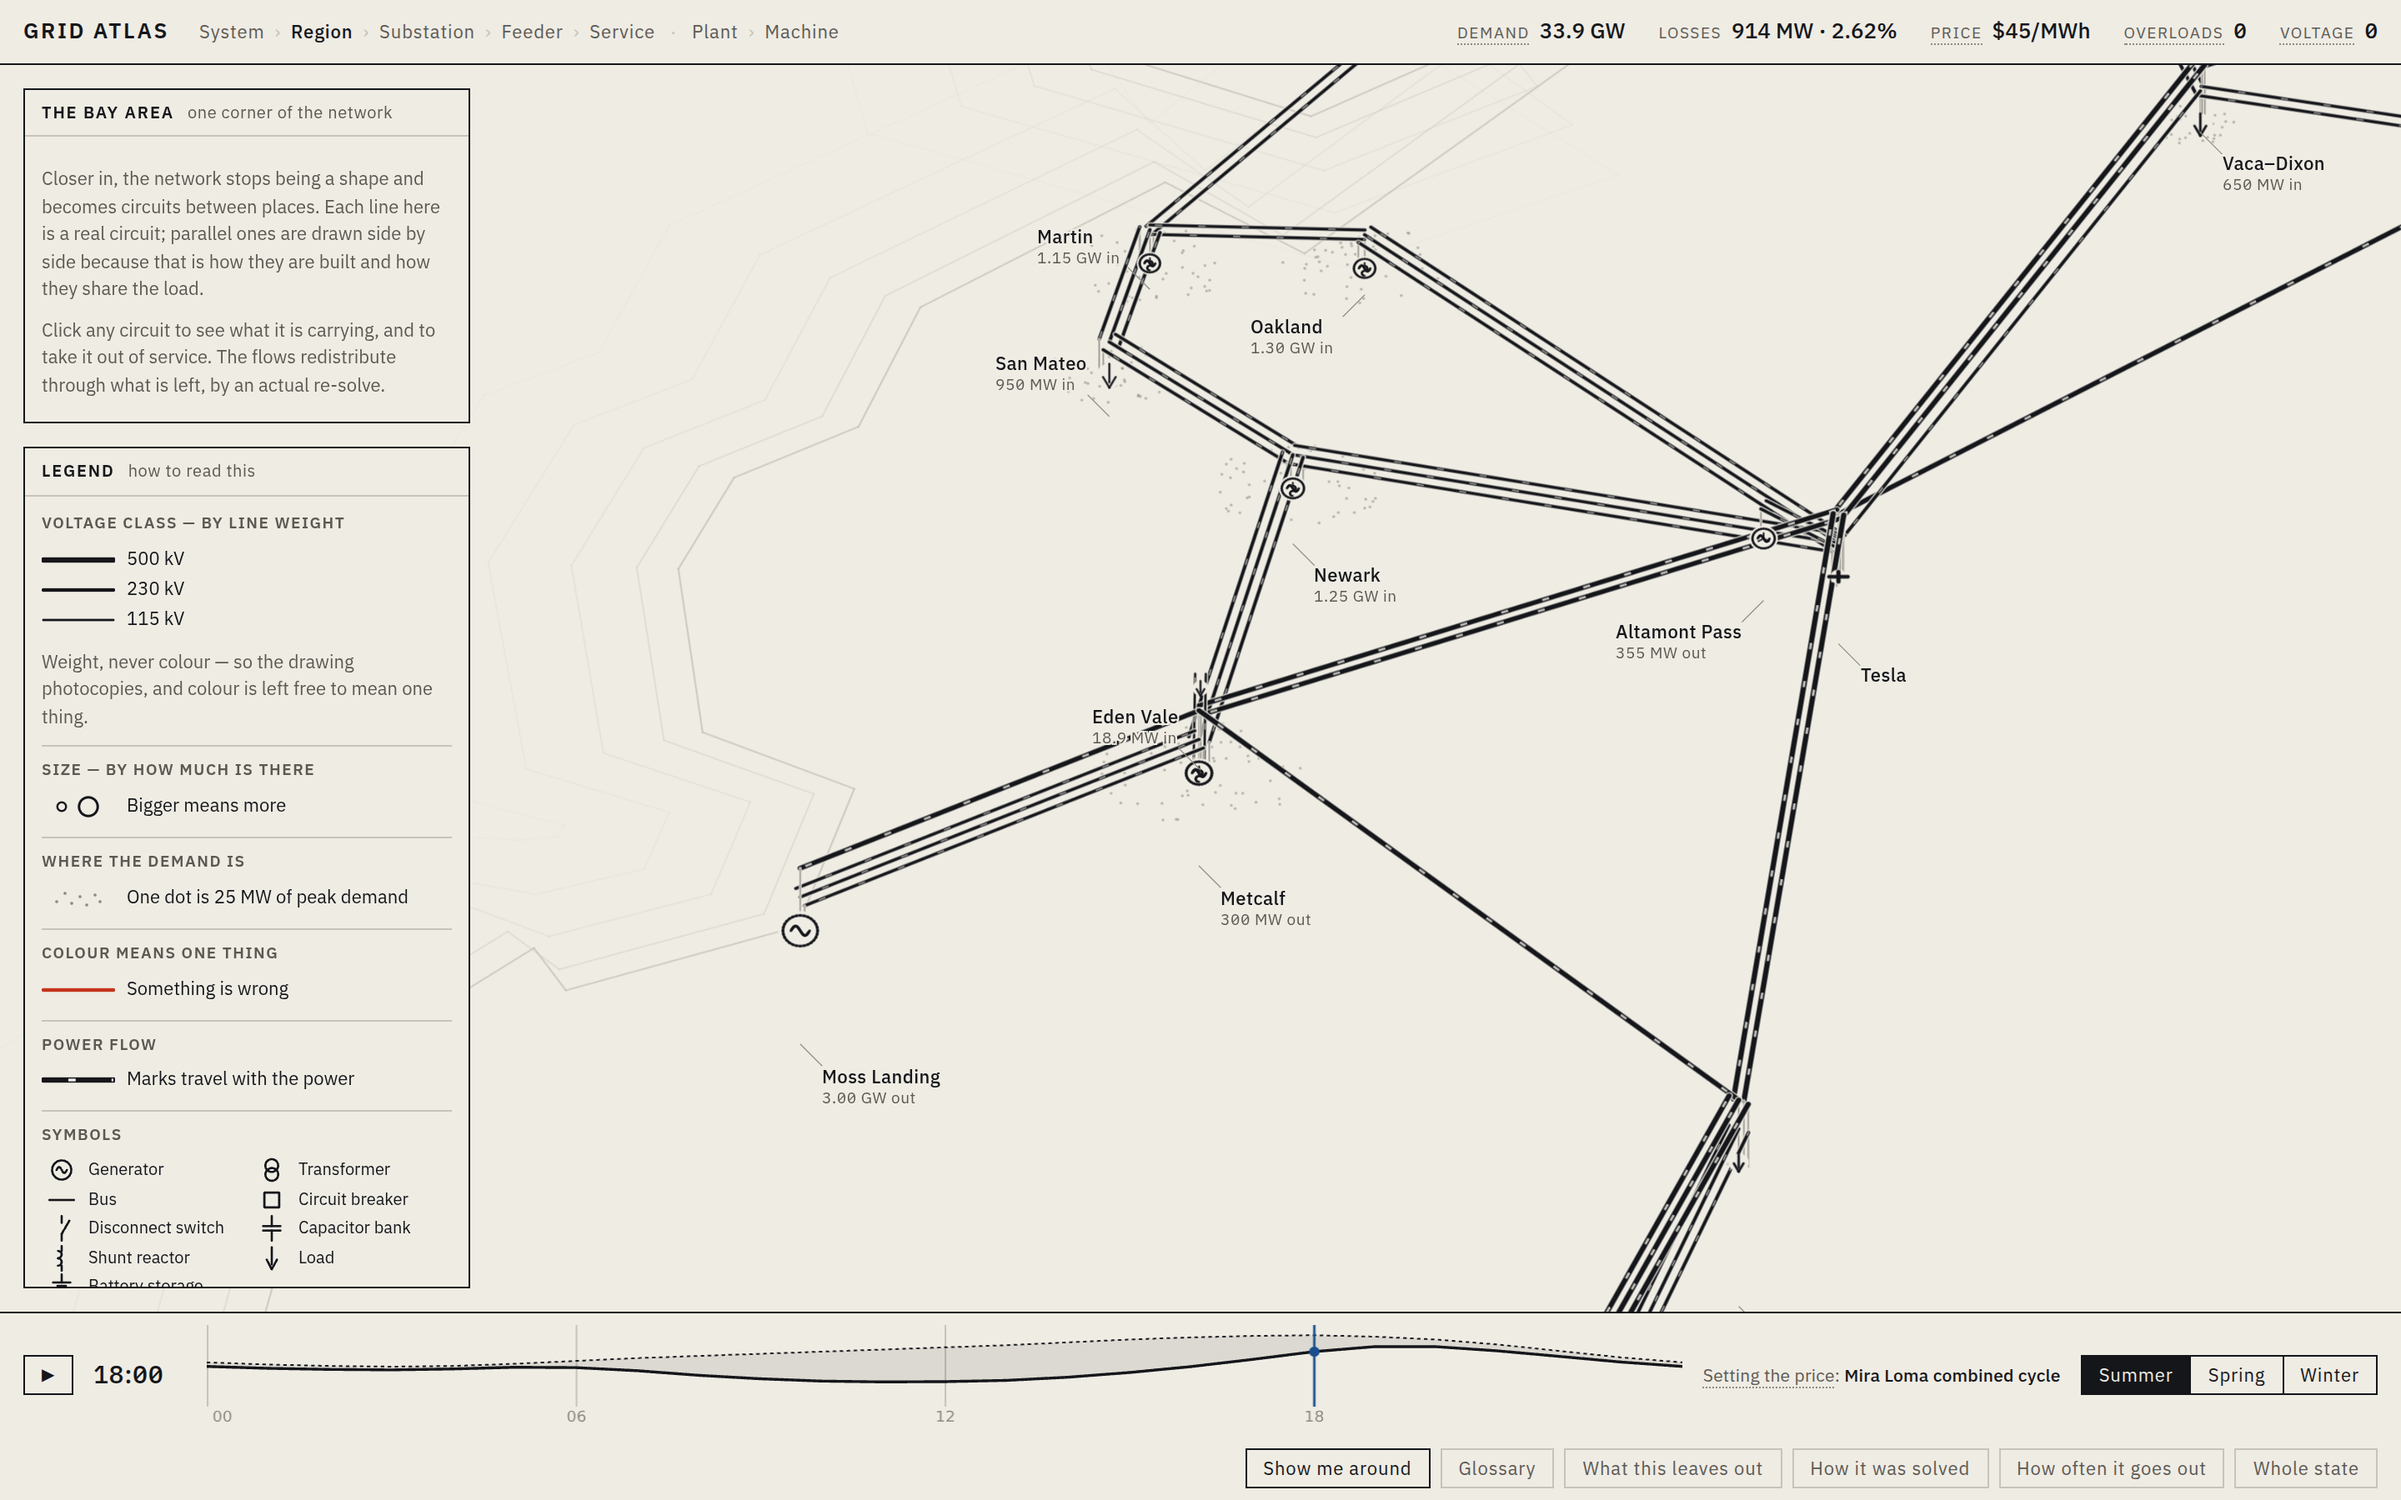
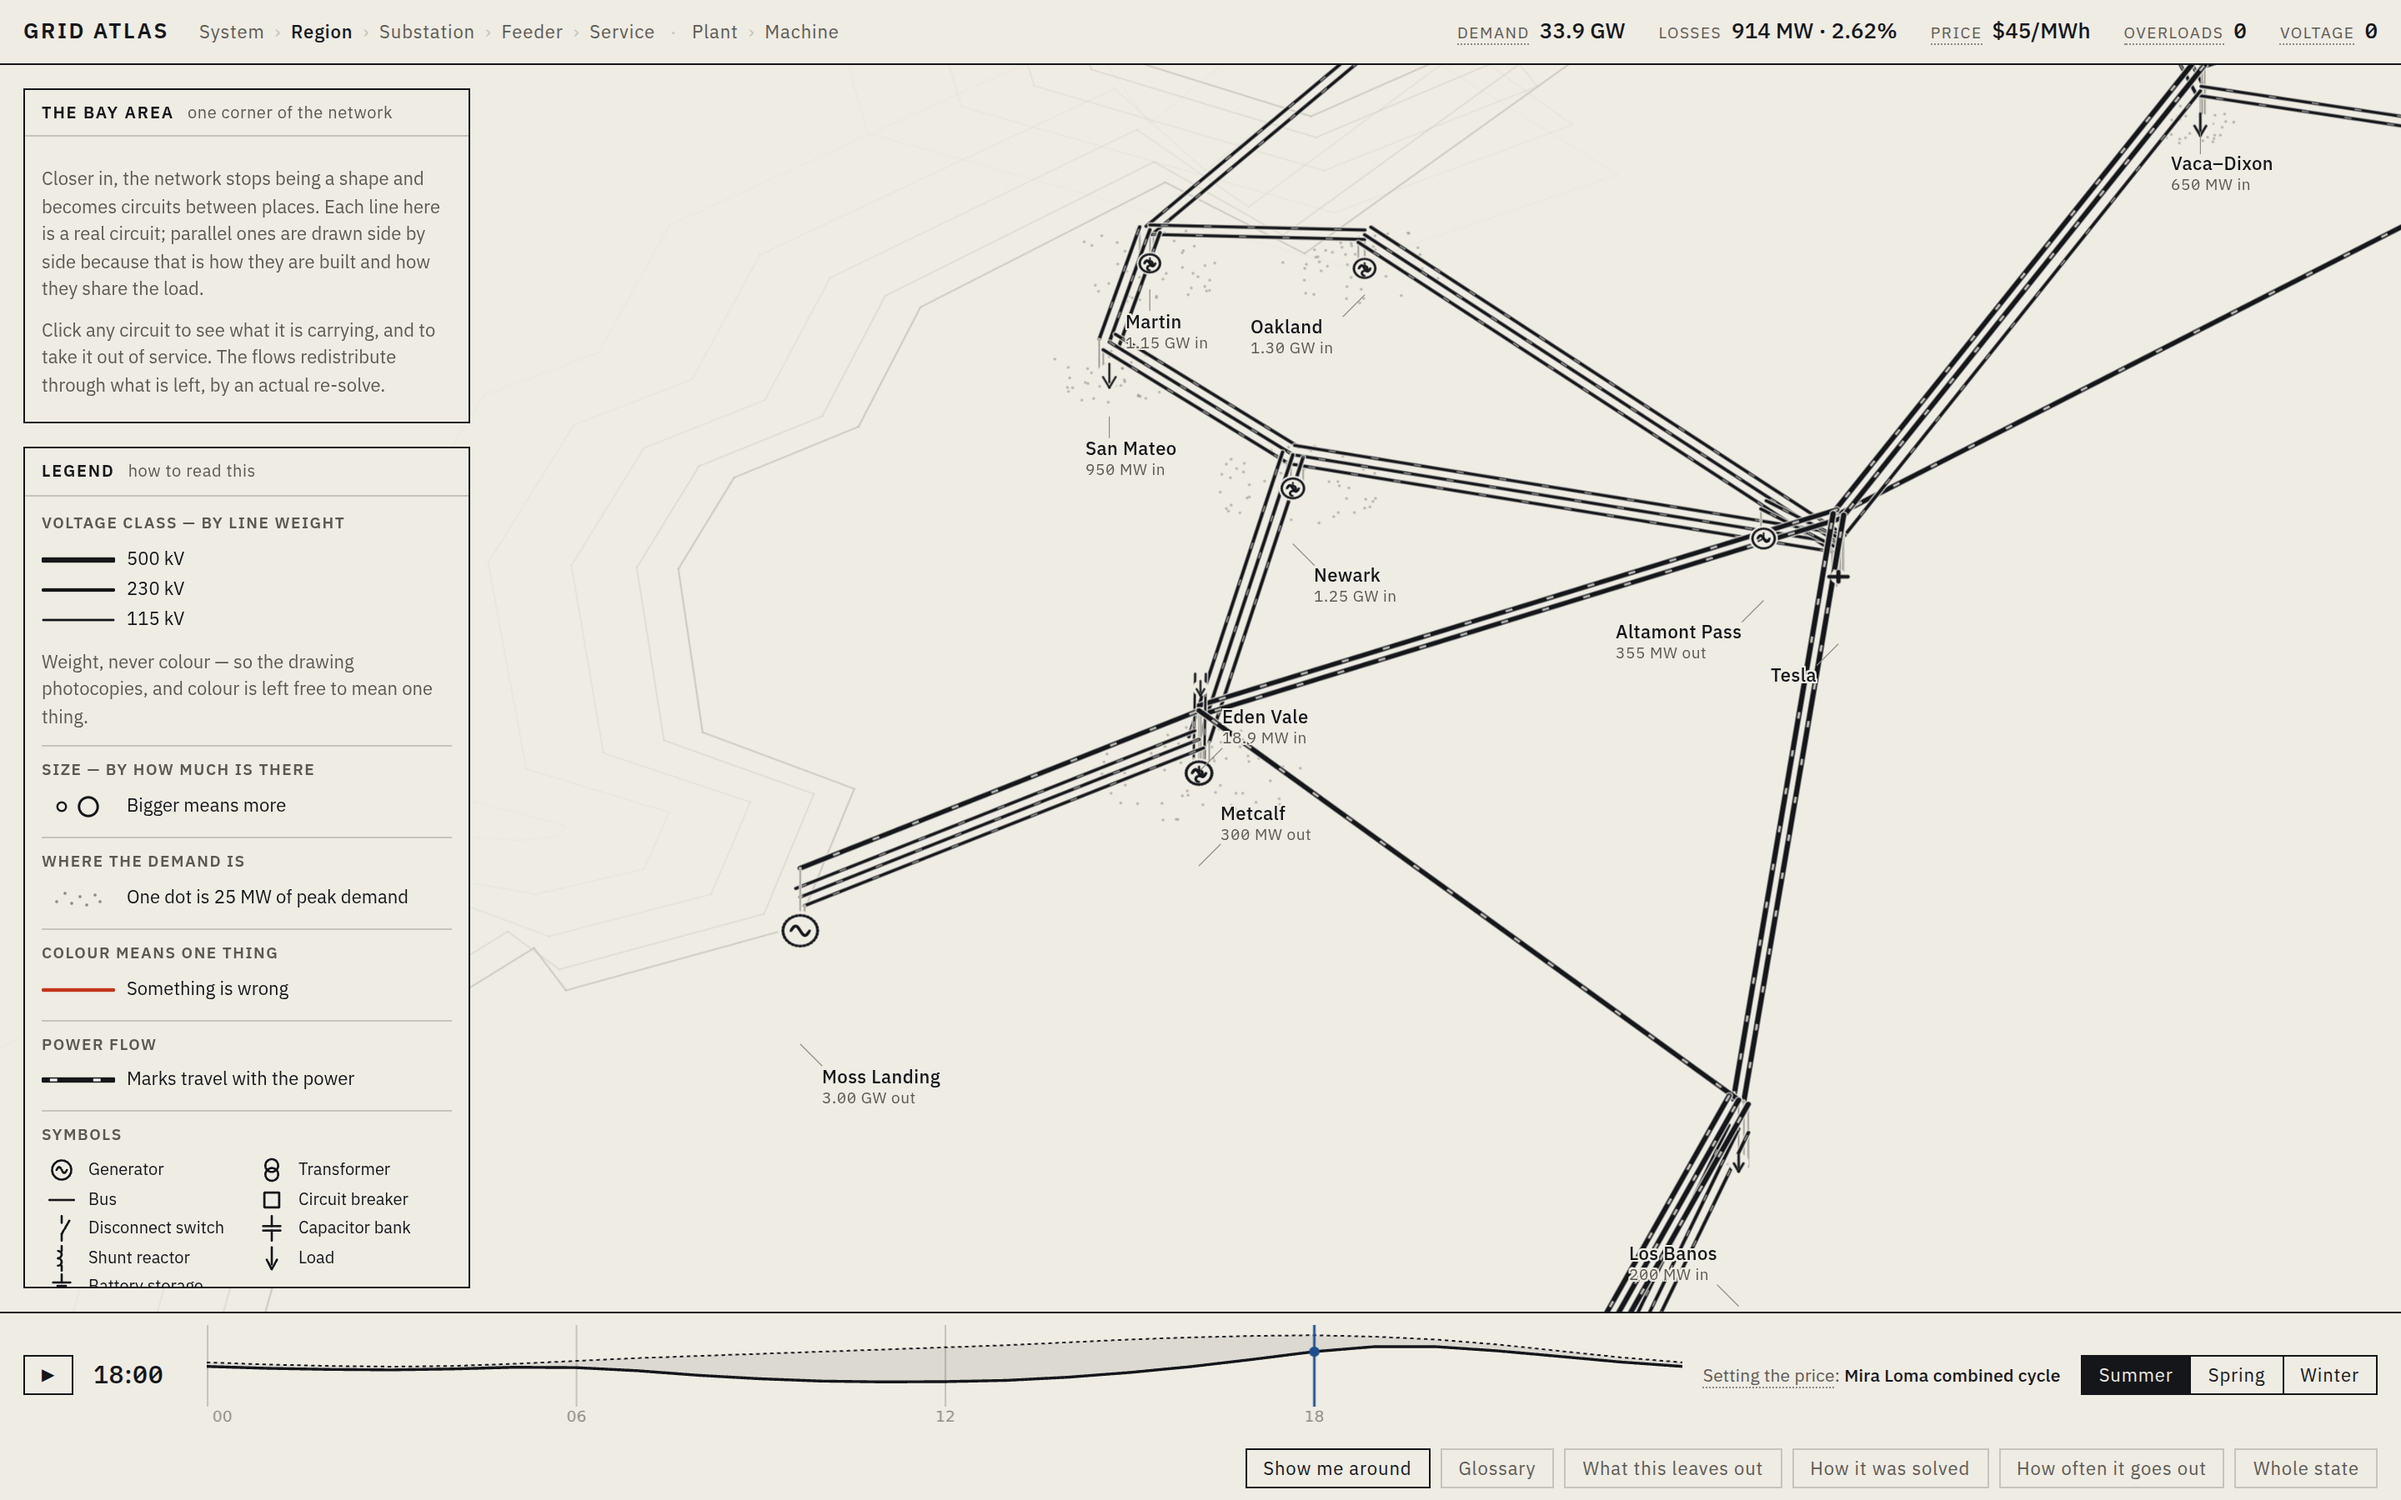
Names go on the land, not out to sea
Preferring the least ink under a caption — added in the last pass to
stop names landing in the middle of corridors — sends a caption to the
emptiest paper within reach, and on a map the emptiest paper is off the
edge of the subject. San Diego, Moss Landing, Imperial Valley and eight
others had their site inside California and their own text outside it,
each on a hairline leader, reading as names for somewhere else.

Cartographers have always pushed a coastal name inland. The inward
direction here is just the direction of the middle of the ink, which
every scene has without knowing anything about geography.

The ordering has to dominate, and this is the part that took two tries:
minimising ink across all candidates at once looks like the same thing
and is not, because the emptiest paper within reach of a coastal site
IS the sea, so least-ink kept winning there. Candidates are grouped —
beside it and inward, at arm's length inward, beside it and outward —
each group exhausted before the next, and the cleanest spot chosen
within a group. There is deliberately no fourth group: a name that fits
nowhere inward and nowhere beside its point is dropped rather than held
out over open water, where it reads as the name of the water.

Eleven of thirty-three became three of thirty, and the three are
genuinely on a coast with the sea one side and a dense cluster of names
on the other. tools/label-geography.mjs counts them and fails above
that.
[…]

diff --git a/src/render/labels.ts b/src/render/labels.ts
@@ -77,6 +77,9 @@ export interface InkField {
   cols: number;
   rows: number;
   cell: number;
+  /** The middle of the drawing, in screen pixels: where the ink actually is. */
+  centreX: number;
+  centreY: number;
 }
 
 const INK_CELL_PX = 12;
@@ -117,12 +120,18 @@ export function inkField(
   const pa = new Vector2();
   const pb = new Vector2();
   const w = new Vector3();
+  let sumX = 0;
+  let sumY = 0;
+  let sumW = 0;
 
   const put = (x: number, y: number, weight: number): void => {
     const cx = (x / cell) | 0;
     const cy = (y / cell) | 0;
     if (cx < 0 || cy < 0 || cx >= cols || cy >= rows) return;
     cells[cy * cols + cx] += weight;
+    sumX += x * weight;
+    sumY += y * weight;
+    sumW += weight;
   };
 
   for (const seg of segments) {
@@ -142,7 +151,43 @@ export function inkField(
       put(pa.x + dx * t, pa.y + dy * t, weight);
     }
   }
-  return { cells, cols, rows, cell };
+  return {
+    cells, cols, rows, cell,
+    centreX: sumW > 0 ? sumX / sumW : widthPx / 2,
+    centreY: sumW > 0 ? sumY / sumW : heightPx / 2,
+  };
+}
+
+/**
+ * The candidates, ordered so that a label goes outward only as a last resort.
+ *
+ *   1. beside its subject, on the side facing the drawing;
+ *   2. at arm's length on that side, on a leader;
+ *   3. beside its subject on the outward side;
+ *   4. at arm's length outward.
+ *
+ * Within each group the most inward-facing direction comes first, so ties in
+ * ink break towards the middle of the drawing rather than away from it.
+ */
+function inwardFirst(
+  tries: readonly Placement[], at: Vector2, ink: InkField
+): Placement[][] {
+  const dx = ink.centreX - at.x;
+  const dy = ink.centreY - at.y;
+  const len = Math.hypot(dx, dy);
+  if (len < 1) return [[...tries]];
+  const ux = dx / len;
+  const uy = dy / len;
+  const facing = (p: Placement): number =>
+    (p[0] * ux + p[1] * uy) / Math.hypot(p[0], p[1]);
+  const byFacing = (a: Placement, b: Placement): number => facing(b) - facing(a);
+  const inward = tries.filter((p) => facing(p) > 0.05).sort(byFacing);
+  const outward = tries.filter((p) => facing(p) <= 0.05).sort(byFacing);
+  const inwardFar = inward.map(([x, y]) => [x, y, 2.6] as Placement);
+  // Three groups, tried in order. There is deliberately no fourth: a name that
+  // fits nowhere inward and nowhere beside its point is dropped rather than
+  // held out on a leader over open sea, where it reads as the name of the sea.
+  return [inward, inwardFar, outward];
 }
 
 /** How much ink a rectangle would be written over. */
@@ -175,10 +220,21 @@ const overlaps = (a: Rect, b: Rect, pad: number): boolean =>
   a.x - pad < b.x + b.w && a.x + a.w + pad > b.x &&
   a.y - pad < b.y + b.h && a.y + a.h + pad > b.y;
 
-/** Candidate placements, tried in order: up-right, up-left, down-right, ... */
-const PLACEMENTS: [number, number][] = [
-  [1, -1], [-1, -1], [1, 1], [-1, 1], [0, -1.6], [0, 1.6],
+/**
+ * Candidate placements: which way from its subject a label may sit, and how
+ * far, as a multiple of the standard offset.
+ *
+ * The first six are the ordinary ring, tried in the conventional order —
+ * up-right, up-left, down-right, and so on. The rest are the same directions
+ * at arm's length, tried only when the near ring is full: a name that cannot
+ * sit beside its point is better held out on a leader than dropped, and better
+ * held out over the subject than off the edge of it.
+ */
+type Placement = readonly [number, number, number];
+const NEAR: Placement[] = [
+  [1, -1, 1], [-1, -1, 1], [1, 1, 1], [-1, 1, 1], [0, -1.6, 1], [0, 1.6, 1],
 ];
+const PLACEMENTS: Placement[] = NEAR;
 
 /**
  * The same candidates, restricted to one side.
@@ -195,11 +251,11 @@ const PLACEMENTS: [number, number][] = [
  * gets placed rather than dropped — losing the current and the volts dropped
  * along a wire to keep a tidy rhythm would be a bad trade.
  */
-const ABOVE: [number, number][] = [
-  [1, -1], [-1, -1], [0, -1.6], [1, 1], [-1, 1], [0, 1.6],
+const ABOVE: Placement[] = [
+  [1, -1, 1], [-1, -1, 1], [0, -1.6, 1], [1, 1, 1], [-1, 1, 1], [0, 1.6, 1],
 ];
-const BELOW: [number, number][] = [
-  [1, 1], [-1, 1], [0, 1.6], [1, -1], [-1, -1], [0, -1.6],
+const BELOW: Placement[] = [
+  [1, 1, 1], [-1, 1, 1], [0, 1.6, 1], [1, -1, 1], [-1, -1, 1], [0, -1.6, 1],
 ];
 
 export class LabelLayer {
@@ -278,25 +334,50 @@ export class LabelLayer {
       }
       const size = this.measure(spec);
       let put: PlacedLabel | null = null;
+      // A LABEL GOES ON THE SIDE OF ITS SUBJECT THAT FACES THE DRAWING.
+      //
+      // Preferring the least ink, on its own, sends a caption to the emptiest
+      // paper within reach — and the emptiest paper is off the edge of the
+      // subject. On a map of California that meant San Diego, Imperial Valley
+      // and Moss Landing captioned out at sea or over Mexico, each on a
+      // hairline leader, reading as names for somewhere else entirely. Eleven
+      // of thirty-three labels had their site inside the state and their own
+      // text outside it.
+      //
+      // Cartographers have always pushed a coastal name inland. The inward
+      // direction here is simply towards the middle of the ink, which every
+      // scene has without knowing anything about geography.
       const tries = spec.side === 'above' ? ABOVE
         : spec.side === 'below' ? BELOW : PLACEMENTS;
+      const groups = ink ? inwardFirst(tries, px, ink) : [[...tries]];
       // The FIRST free position is not the best one. Candidates are ordered by
       // where a caption conventionally sits, and that order is the tie-break;
       // between them, the one written over the least drawing wins.
-      let bestInk = Infinity;
-      for (const [sx, sy] of tries) {
-        const off = spec.offsetPx ?? [LAYOUT.labelOffsetPx, LAYOUT.labelOffsetPx];
-        const x = px.x + (sx >= 0 ? off[0] : -off[0] - size.w) + (sx === 0 ? -size.w / 2 : 0);
-        const y = px.y + (sy >= 0 ? off[1] : -off[1] - size.h);
-        const rect = { x, y, w: size.w, h: size.h };
-        if (placed.some((p) => overlaps(rect, p, LAYOUT.labelCollisionPaddingPx))) continue;
-        if (blocked.some((b) => overlaps(rect, b, 2))) continue;
-        const over = ink ? inkUnder(ink, rect) : 0;
-        if (over < bestInk) {
-          bestInk = over;
-          put = { spec, x, y, w: size.w, h: size.h, anchorX: px.x, anchorY: px.y };
+      // THE GROUP DECIDES THE SIDE; THE INK DECIDES THE SPOT WITHIN IT.
+      //
+      // Minimising ink across all candidates at once looks like the same thing
+      // and is not: the emptiest paper within reach of a coastal site is the
+      // sea, so least-ink always won there and the name went out to sea. Each
+      // group is exhausted before the next is considered, and inside a group
+      // the cleanest placement wins.
+      for (const group of groups) {
+        let bestInk = Infinity;
+        for (const [sx, sy, scale] of group) {
+          const base = spec.offsetPx ?? [LAYOUT.labelOffsetPx, LAYOUT.labelOffsetPx];
+          const off = [base[0] * scale, base[1] * scale];
+          const x = px.x + (sx >= 0 ? off[0] : -off[0] - size.w) + (sx === 0 ? -size.w / 2 : 0);
+          const y = px.y + (sy >= 0 ? off[1] : -off[1] - size.h);
+          const rect = { x, y, w: size.w, h: size.h };
+          if (placed.some((p) => overlaps(rect, p, LAYOUT.labelCollisionPaddingPx))) continue;
+          if (blocked.some((b) => overlaps(rect, b, 2))) continue;
+          const over = ink ? inkUnder(ink, rect) : 0;
+          if (over < bestInk) {
+            bestInk = over;
+            put = { spec, x, y, w: size.w, h: size.h, anchorX: px.x, anchorY: px.y };
+          }
+          if (over === 0) break;
         }
-        if (over === 0) break;
+        if (put) break;
       }
       // A value is only spoken for once it has actually been PLACED: a label
       // that collided and was dropped must not take its number down with it.

diff --git a/PROGRESS.md b/PROGRESS.md
@@ -559,6 +559,7 @@ tools live in `tools/`:
 | `navigate.mjs` | Does getting there work? All forty-two journeys between the seven levels, failing if a destination is reached at a different scale depending on where you started |
 | `guide-walk.mjs` | Does the fourteen-step path land where it says? |
 | `crop.mjs` | Does it hold up at print scale? One view at three times device scale, cropped |
+| `label-geography.mjs` | Are the map's names on the map? Counts labels whose site is inside California and whose text is not |
 | `states.mjs` | Does it hold up when something is wrong? A tripped backbone, a fault on a busbar, an overloaded pad-mount, a motor starting |
 
 ### What the second pass found

diff --git a/README.md b/README.md
@@ -86,5 +86,6 @@ node tools/audit.mjs      # every view: segments, labels, scale, breadcrumb, pan
 node tools/navigate.mjs   # all 42 journeys between levels arrive at the same size
 node tools/guide-walk.mjs # the fourteen-step path lands where it says
 node tools/states.mjs     # a tripped line, a fault, an overload: where colour earns its place
+node tools/label-geography.mjs   # every name on the map is on the map
 node tools/crop.mjs substation 1 600 180 560 400 yard   # one detail, at print scale
 ```
